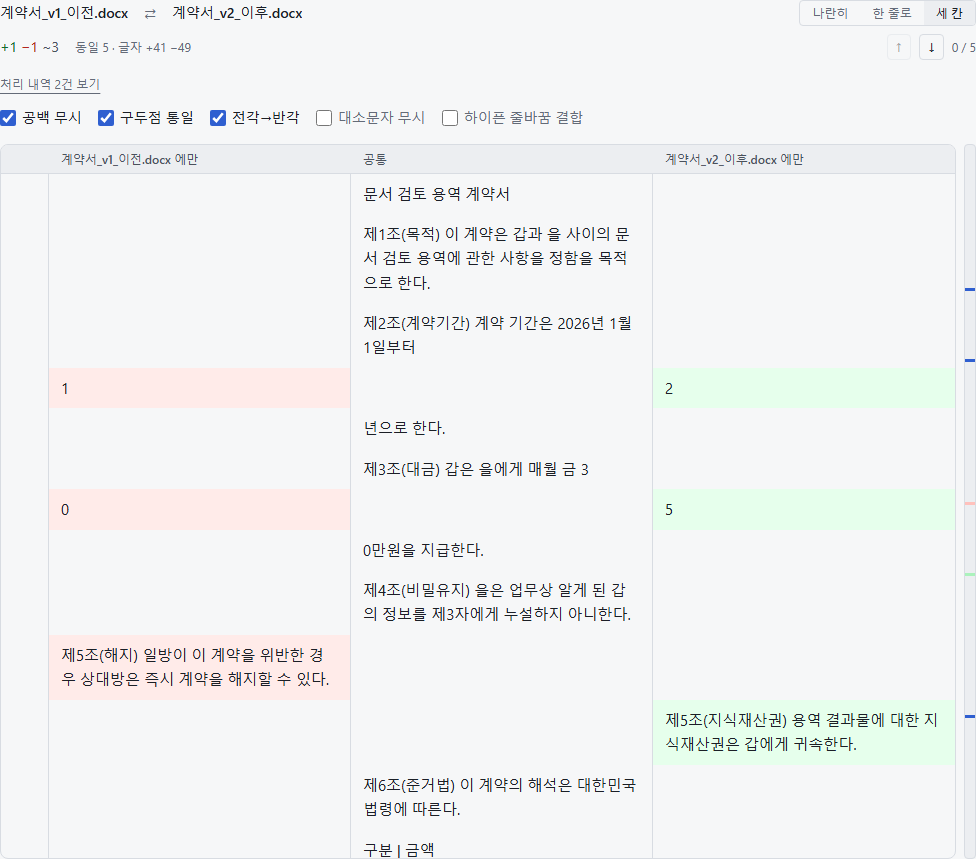
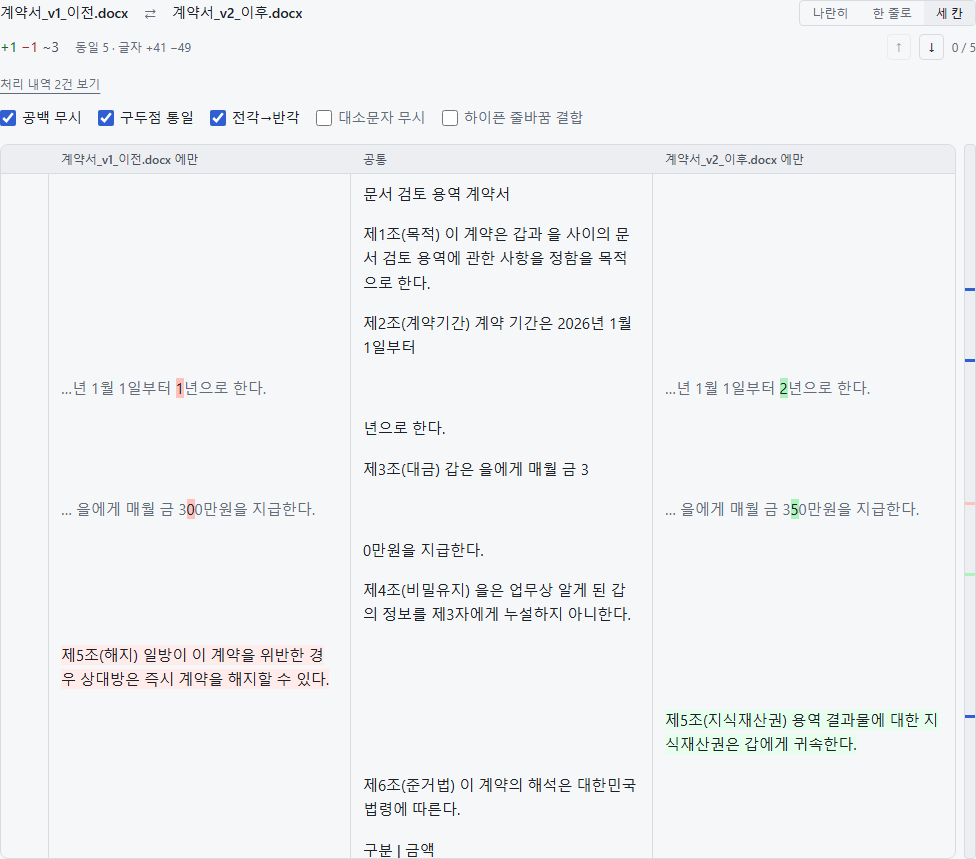
Feat: 짧은 조각에 맥락 붙이기 + 자소 단위 분해 + RTL 격리
세 칸 보기에서 "1" 한 글자만 떼어 놓으면 무엇이 바뀐 건지 알 수 없었다.
읽기 좋게 만드는 방법으로 "어절 단위로 넓히기" 를 검토했지만 언어에 걸린다 —
공백으로 자르면 중국어·일본어·태국어는 문장 전체가 한 낱말이라 좌우 칸에 문단이
통째로 다시 나오고, 한국어는 "계약서를/계약서는" 이 어절째 갈려 이 제품이
내세우는 "조사 한 글자만 짚기" 가 사라진다.

그래서 검출은 그대로 두고 표시만 손봤다.

- 조각이 3자 미만이면 앞뒤 공통 텍스트를 12자까지 흐린 회색으로 덧붙인다.
  diff 결과가 아니라 읽기 보조이므로 색을 빼고 aria-hidden 으로 숨긴다.
  잘려 나온 맥락에는 말줄임을 붙인다
- 맥락 속 한두 자는 옅은 배경으로는 묻힌다. 맥락이 붙은 조각만 인라인 강조와
  같은 진한 색을 쓰고, 문단을 통째로 옮긴 경우는 옅은 배경 그대로 둔다
- 낱말 경계는 Intl.Segmenter(word) 가 잡는다(src/core/segment.ts).
  없는 환경은 공백 fallback
- 인라인 diff 의 문자 재분해를 코드포인트 → 자소로 바꿨다. `[...s]` 로 쪼개면
  이모지 ZWJ 조합, 태국어 성조, NFD 한글 자모가 반쪽으로 갈려 깨진 채 화면에
  남는다. 언어 선택과 무관한 기존 버그였다
- 조각 칸에 dir="auto" 와 unicode-bidi: isolate. 아랍어·히브리어 조각을 문맥에서
  떼어 놓아도 순서가 뒤집히지 않는다

README 의 화면 이미지도 다시 찍었다(npm run docs:shots).

단위 185개(+11) + E2E 20개, 초기 로드 72.0KB.

Claude-Session: https://claude.ai/code/session_01VrMLpg5yzuyxJcmQ9v5gUo

diff --git a/tests/segment.test.ts b/tests/segment.test.ts
@@ -1,0 +1,65 @@
+import { describe, expect, it } from 'vitest';
+import { contextHead, contextTail, graphemes } from '../src/core/segment';
+
+/**
+ * 글자·낱말 경계.
+ *
+ * 코드포인트로 쪼개면 이모지 조합과 결합 문자가 반쪽으로 갈리고, 공백으로 낱말을
+ * 자르면 띄어쓰기 없는 언어가 통째로 딸려 온다. 둘 다 화면에서 바로 드러나는
+ * 문제라서 여기서 못박는다.
+ */
+describe('graphemes', () => {
+  it('한글·영문은 글자 그대로 센다', () => {
+    expect(graphemes('계약서')).toEqual(['계', '약', '서']);
+    expect(graphemes('abc')).toEqual(['a', 'b', 'c']);
+  });
+
+  it('ZWJ 로 이어 붙인 이모지를 쪼개지 않는다', () => {
+    // 가족 이모지: 사람 넷을 ZWJ 로 이었다. 코드포인트로 세면 7개로 갈린다.
+    const family = '👨👩👧👦';
+    expect([...family].length).toBeGreaterThan(1);
+    expect(graphemes(family)).toEqual([family]);
+  });
+
+  it('NFD 로 분해된 한글을 한 글자로 본다', () => {
+    const nfd = '가'.normalize('NFD'); // ᄀ + ᅡ
+    expect([...nfd].length).toBe(2);
+    expect(graphemes(nfd)).toEqual([nfd]);
+  });
+
+  it('결합 문자(태국어 성조)를 쪼개지 않는다', () => {
+    const thai = 'ก้'; // ก + 성조 부호
+    expect(graphemes(thai)).toEqual([thai]);
+  });
+});
+
+describe('contextTail / contextHead', () => {
+  it('낱말 가운데를 자르지 않는다', () => {
+    // 12자 안에서 낱말 경계까지만 가져온다.
+    expect(contextTail('계약 기간은 2026년 1월 1일부터 ', 12).startsWith(' ')).toBe(false);
+    expect('계약 기간은 2026년 1월 1일부터 '.endsWith(contextTail('계약 기간은 2026년 1월 1일부터 ', 12))).toBe(true);
+  });
+
+  it('짧은 문자열은 통째로 돌려준다', () => {
+    expect(contextTail('년으로 한다.', 20)).toBe('년으로 한다.');
+    expect(contextHead('년으로 한다.', 20)).toBe('년으로 한다.');
+  });
+
+  it('빈 문자열은 빈 문자열이다', () => {
+    expect(contextTail('', 10)).toBe('');
+    expect(contextHead('', 10)).toBe('');
+  });
+
+  it('상한을 넘기지 않는다', () => {
+    const long = '가나다라마바사아자차카타파하가나다라마바사';
+    expect(graphemes(contextTail(long, 8)).length).toBeLessThanOrEqual(8);
+    expect(graphemes(contextHead(long, 8)).length).toBeLessThanOrEqual(8);
+  });
+
+  it('띄어쓰기가 없는 언어도 통째로 끌고 오지 않는다', () => {
+    // 공백만 보고 자르면 문장 전체가 한 낱말이라 상한을 넘긴다.
+    const zh = '这是一份关于文件审阅服务的合同条款说明文字';
+    expect(graphemes(contextTail(zh, 6)).length).toBeLessThanOrEqual(6);
+    expect(graphemes(contextHead(zh, 6)).length).toBeLessThanOrEqual(6);
+  });
+});

diff --git a/src/components/diff/TripleRow.tsx b/src/components/diff/TripleRow.tsx
@@ -68,26 +68,65 @@ function SegmentLine({ seg, loc }: { seg: TripleSegment; loc: string }) {
         </>
       ) : (
         <>
-          <Cell text={seg.left} tone="del" label="이전에만 있음" />
+          <Cell text={seg.left} before={seg.before} after={seg.after} tone="del" label="이전에만 있음" />
           <Cell />
-          <Cell text={seg.right} tone="add" label="이후에만 있음" />
+          <Cell text={seg.right} before={seg.before} after={seg.after} tone="add" label="이후에만 있음" />
         </>
       )}
     </div>
   );
 }
 
-function Cell({ text, tone, label }: { text?: string; tone?: 'del' | 'add'; label?: string }) {
+function Cell({
+  text,
+  before,
+  after,
+  tone,
+  label,
+}: {
+  text?: string;
+  /** 조각이 너무 짧을 때 붙는 읽기 보조. diff 결과가 아니므로 흐리게, 낭독기에는 숨긴다. */
+  before?: string;
+  after?: string;
+  tone?: 'del' | 'add';
+  label?: string;
+}) {
   const filled = !!text;
-  const bg = !filled ? '' : tone === 'del' ? 'bg-[var(--color-del-bg)]' : tone === 'add' ? 'bg-[var(--color-add-bg)]' : '';
+  const muted = 'text-[var(--color-ink-400)]';
+
+  /*
+    맥락을 붙인 짧은 조각은 흐린 글자들 사이에 한두 자만 놓인다. 옅은 배경으로는
+    묻혀 버려서, 인라인 강조와 같은 진한 색을 쓴다. 문단을 통째로 옮긴 경우엔
+    반대로 옅은 배경이어야 한다 — 화면 절반이 색으로 덮이면 읽을 수 없다.
+  */
+  const strong = !!(before || after);
+  const tint =
+    tone === 'del'
+      ? strong
+        ? 'bg-[var(--color-del-strong)] text-[var(--color-ink-900)]'
+        : 'bg-[var(--color-del-bg)]'
+      : tone === 'add'
+        ? strong
+          ? 'bg-[var(--color-add-strong)] text-[var(--color-ink-900)]'
+          : 'bg-[var(--color-add-bg)]'
+        : '';
 
   return (
+    // dir=auto + isolate: 아랍어·히브리어 조각을 문맥에서 떼어 놓아도 순서가 뒤집히지 않는다.
     <span
-      className={['min-w-0 whitespace-pre-wrap break-words px-3 py-2 text-[15px] leading-relaxed', bg].join(' ')}
-      aria-label={filled ? label : undefined}
+      dir="auto"
+      className={[
+        'min-w-0 whitespace-pre-wrap break-words px-3 py-2 text-[15px] leading-relaxed [unicode-bidi:isolate]',
+      ].join(' ')}
     >
       {/* 빈 칸은 비워 둔다. 자리는 격자가 지키므로 기호를 넣으면 화면만 시끄러워진다. */}
-      {text}
+      {filled && before && <span aria-hidden className={muted}>{before}</span>}
+      {filled && (
+        <span aria-label={label} className={[tint, '[unicode-bidi:isolate]'].join(' ')}>
+          {text}
+        </span>
+      )}
+      {filled && after && <span aria-hidden className={muted}>{after}</span>}
     </span>
   );
 }

diff --git a/src/components/diff/tripleRows.ts b/src/components/diff/tripleRows.ts
@@ -1,4 +1,5 @@
 import type { DiffRow, InlineSpan } from '@/core/types';
+import { contextHead, contextTail, graphemes } from '@/core/segment';
 
 /**
  * 세 칸 보기 — 문단을 "조각" 열로 바꾼다.
@@ -24,7 +25,19 @@ export interface DivergentSegment {
   left: string;
   /** 이후에만 있는 것. 없으면 빈 문자열(= 이전에서 삭제됨). */
   right: string;
+  /**
+   * 조각이 너무 짧을 때만 채우는 앞뒤 맥락.
+   * "1" 하나만 떼어 놓으면 무엇이 바뀐 건지 알 수 없다. 다만 이건 diff 결과가
+   * 아니라 읽기 보조라서, 화면에서 흐린 색으로 구분하고 화면낭독기에서는 숨긴다.
+   */
+  before?: string;
+  after?: string;
 }
+
+/** 이보다 짧은 조각에만 맥락을 붙인다. */
+const SHORT = 3;
+/** 한쪽에 붙일 맥락의 최대 길이. 길면 가운데 열과 중복돼 오히려 시끄럽다. */
+const CONTEXT = 12;
 
 export type TripleSegment = CommonSegment | DivergentSegment;
 
@@ -59,7 +72,39 @@ export function toTripleSegments(row: DiffRow, rowIndex: number): TripleSegment[
     return [{ kind: 'divergent', id: id(0), left: row.left?.text ?? '', right: row.right?.text ?? '' }];
   }
 
-  return fromSpans(row.inline, id);
+  return withContext(fromSpans(row.inline, id));
+}
+
+/**
+ * 짧은 갈림 조각에 앞뒤 공통 텍스트를 조금 붙인다.
+ * 낱말 가운데서 자르지 않도록 경계는 Intl.Segmenter 가 잡는다 — 띄어쓰기가 없는
+ * 중국어·일본어·태국어에서도 통째로 끌려오지 않는다.
+ */
+function withContext(segments: TripleSegment[]): TripleSegment[] {
+  return segments.map((seg, i) => {
+    if (seg.kind !== 'divergent') return seg;
+
+    const longest = Math.max(graphemes(seg.left).length, graphemes(seg.right).length);
+    if (longest >= SHORT) return seg;
+
+    const prev = segments[i - 1];
+    const next = segments[i + 1];
+    const prevText = prev?.kind === 'common' ? prev.text : '';
+    const nextText = next?.kind === 'common' ? next.text : '';
+
+    // 잘려 나온 맥락이면 말줄임을 붙여, 문단이 거기서 시작·끝나는 게 아님을 알린다.
+    const tail = contextTail(prevText, CONTEXT);
+    const head = contextHead(nextText, CONTEXT);
+    const before = tail && (tail === prevText ? tail : '…' + tail);
+    const after = head && (head === nextText ? head : head + '…');
+    if (!before && !after) return seg;
+
+    return {
+      ...seg,
+      ...(before ? { before } : {}),
+      ...(after ? { after } : {}),
+    };
+  });
 }
 
 /** 연속된 같은 성격의 스팬은 하나로 모은다. 한 글자마다 줄이 갈리면 읽을 수 없다. */

diff --git a/src/core/segment.ts b/src/core/segment.ts
@@ -1,0 +1,58 @@
+/**
+ * 글자·낱말 경계.
+ *
+ * 코드포인트로 쪼개면(`[...s]`) 이모지 조합·결합 문자·NFD 자모가 깨진다.
+ * 공백으로 낱말을 자르면(`/\s+|[^\s]+/`) 중국어·일본어·태국어에서 문장 전체가
+ * 토큰 하나가 된다. 둘 다 `Intl.Segmenter` 가 제대로 처리한다.
+ *
+ * 없는 환경(오래된 브라우저)에서는 예전 방식으로 물러난다 — 정확도는 떨어지지만
+ * 화면이 죽지는 않는다.
+ */
+
+type Seg = { segment: string };
+
+const HAS_SEGMENTER = typeof Intl !== 'undefined' && typeof Intl.Segmenter === 'function';
+
+// Segmenter 는 만드는 비용이 있다. 한 번 만들어 재사용한다.
+let graphemeSeg: Intl.Segmenter | null = null;
+let wordSeg: Intl.Segmenter | null = null;
+
+/** 자소 단위. 이모지 ZWJ 조합, 태국어 성조, 결합 자모가 한 덩어리로 남는다. */
+export function graphemes(s: string): string[] {
+  if (!HAS_SEGMENTER) return [...s];
+  graphemeSeg ??= new Intl.Segmenter(undefined, { granularity: 'grapheme' });
+  return Array.from(graphemeSeg.segment(s) as Iterable<Seg>, (x) => x.segment);
+}
+
+/** 낱말 단위. 띄어쓰기가 없는 언어도 사전으로 끊는다. */
+function words(s: string): string[] {
+  if (!HAS_SEGMENTER) return s.match(/\s+|[^\s]+/g) ?? [];
+  wordSeg ??= new Intl.Segmenter(undefined, { granularity: 'word' });
+  return Array.from(wordSeg.segment(s) as Iterable<Seg>, (x) => x.segment);
+}
+
+/** 뒤에서부터 max 자 이내로, 낱말 가운데를 자르지 않고 가져온다. */
+export function contextTail(s: string, max: number): string {
+  if (!s) return '';
+  let out = '';
+  const w = words(s);
+  for (let i = w.length - 1; i >= 0; i--) {
+    const next = w[i]! + out;
+    if (graphemes(next).length > max) break;
+    out = next;
+  }
+  // 낱말 하나가 이미 max 를 넘으면 글자 단위로라도 조금은 보여준다.
+  return out || graphemes(s).slice(-max).join('');
+}
+
+/** 앞에서부터 max 자 이내로, 낱말 가운데를 자르지 않고 가져온다. */
+export function contextHead(s: string, max: number): string {
+  if (!s) return '';
+  let out = '';
+  for (const w of words(s)) {
+    const next = out + w;
+    if (graphemes(next).length > max) break;
+    out = next;
+  }
+  return out || graphemes(s).slice(0, max).join('');
+}

diff --git a/tests/triple-rows.test.ts b/tests/triple-rows.test.ts
@@ -53,9 +53,46 @@ describe('toTripleSegments', () => {
 
     expect(toTripleSegments(row, 1)).toEqual([
       { kind: 'common', id: '1:0', text: '이 규정은 계약서' },
-      { kind: 'divergent', id: '1:1', left: '를', right: '는' },
+      // 한 글자짜리 조각은 그것만 떼어 놓으면 무엇이 바뀐 건지 알 수 없다.
+      // 앞뒤 맥락이 붙되, 조각 자체(left/right)는 그대로다.
+      { kind: 'divergent', id: '1:1', left: '를', right: '는', before: '이 규정은 계약서', after: ' 비교한다.' },
       { kind: 'common', id: '1:2', text: ' 비교한다.' },
     ]);
+  });
+
+  it('긴 조각에는 맥락을 붙이지 않는다 — 그 자체로 읽힌다', () => {
+    const row: DiffRow = {
+      kind: 'modify',
+      left: block('계약 기간은 1년으로 한다.'),
+      right: block('계약 기간은 열두 달로 한다.'),
+      inline: [
+        span('equal', '계약 기간은 '),
+        span('delete', '1년으로'),
+        span('insert', '열두 달로'),
+        span('equal', ' 한다.'),
+      ],
+    };
+
+    const segs = toTripleSegments(row, 0);
+    expect(segs[1]).toEqual({ kind: 'divergent', id: '0:1', left: '1년으로', right: '열두 달로' });
+  });
+
+  it('맥락이 잘리면 말줄임을 붙인다', () => {
+    const row: DiffRow = {
+      kind: 'modify',
+      left: block('가나다라마바사아자차카타파하 1 끝'),
+      right: block('가나다라마바사아자차카타파하 2 끝'),
+      inline: [
+        span('equal', '가나다라마바사아자차카타파하 '),
+        span('delete', '1'),
+        span('insert', '2'),
+        span('equal', ' 끝'),
+      ],
+    };
+
+    const seg = toTripleSegments(row, 0)[1];
+    expect(seg?.kind).toBe('divergent');
+    expect(seg && 'before' in seg && seg.before?.startsWith('…')).toBe(true);
   });
 
   it('연속된 같은 성격의 스팬은 한 조각으로 모은다', () => {

diff --git a/src/core/diff/wordDiff.ts b/src/core/diff/wordDiff.ts
@@ -1,6 +1,7 @@
 import type { InlineSpan } from '../types';
 import { diffSequence, type SeqOp } from './sequence';
 import { diceCoefficient } from './pairing';
+import { graphemes } from '../segment';
 
 /**
  * §5.4 3단계 — 한국어 대응 인라인 diff.
@@ -19,8 +20,12 @@ export function splitWords(s: string): string[] {
   return s.match(/\s+|[^\s]+/g) ?? [];
 }
 
+/**
+ * 자소 단위로 쪼갠다. 코드포인트로 쪼개면 이모지 조합·결합 문자·NFD 자모가
+ * 반쪽으로 갈려 글자가 깨진 채 화면에 남는다.
+ */
 function splitChars(s: string): string[] {
-  return [...s];
+  return graphemes(s);
 }
 
 function toSpans(tokens: readonly string[], other: readonly string[], ops: SeqOp[]): InlineSpan[] {

diff --git a/docs/NEXT.md b/docs/NEXT.md
@@ -18,13 +18,13 @@
 | M5 뷰어·UX | 🔧 대부분 | 라이트·다크 ✅(둘 다 axe 검증), i18n(T-066) 미착수 |
 | M6 성능·배포 | 🔧 일부 | 번들 예산 ✅, anchorSplit ✅, E2E(T-073) ✅, 접근성 감사(T-072) ✅ |
 
-단위 테스트 174개 + E2E 21개(시나리오 8 + 접근성 13), 초기 로드 71.5KB (예산 200KB).
+단위 테스트 185개 + E2E 20개(시나리오 8 + 접근성 12), 초기 로드 72.0KB (예산 200KB).
 
 ### ⚠ 가장 중요한 한 가지
 
 **실제 문서가 한 번도 파서를 통과한 적이 없다.**
 
-파서 6종은 전부 구현됐고 단위 테스트 174개를 통과하지만, 그 입력은 전부
+파서 6종은 전부 구현됐고 단위 테스트 185개를 통과하지만, 그 입력은 전부
 우리가 손으로 만든 합성 데이터다. 실제 DOCX·HWP·HWPX·PDF 파일이 이 코드를
 통과하는 것을 아직 아무도 보지 못했다.
 
@@ -199,6 +199,8 @@ Tailwind v4 는 `@theme` 블록을 전부 하나의 `:root` 로 끌어올린다.
   손으로 고친 문장)를 이 id 에 매달면 렌더링을 건드리지 않고 얹을 수 있다
 - `commonTextOf()` 가 이미 "가운데만 이어 붙인 본문" 을 돌려준다. 편집 결과를
   내보낼 때의 출발점이다
+- 짧은 조각에 붙는 앞뒤 맥락(`before`/`after`)은 읽기 보조라서 편집 대상이 아니다.
+  편집은 `common` 조각과 갈림의 선택에만 걸린다
 - 갈림 조각에 "왼쪽 채택 / 오른쪽 채택 / 직접 입력" 을 붙이면 병합 편집기가 된다.
   그때 편집 상태를 store 에 둘지(되돌리기·내보내기까지 생각하면 그쪽) 정한다
 
